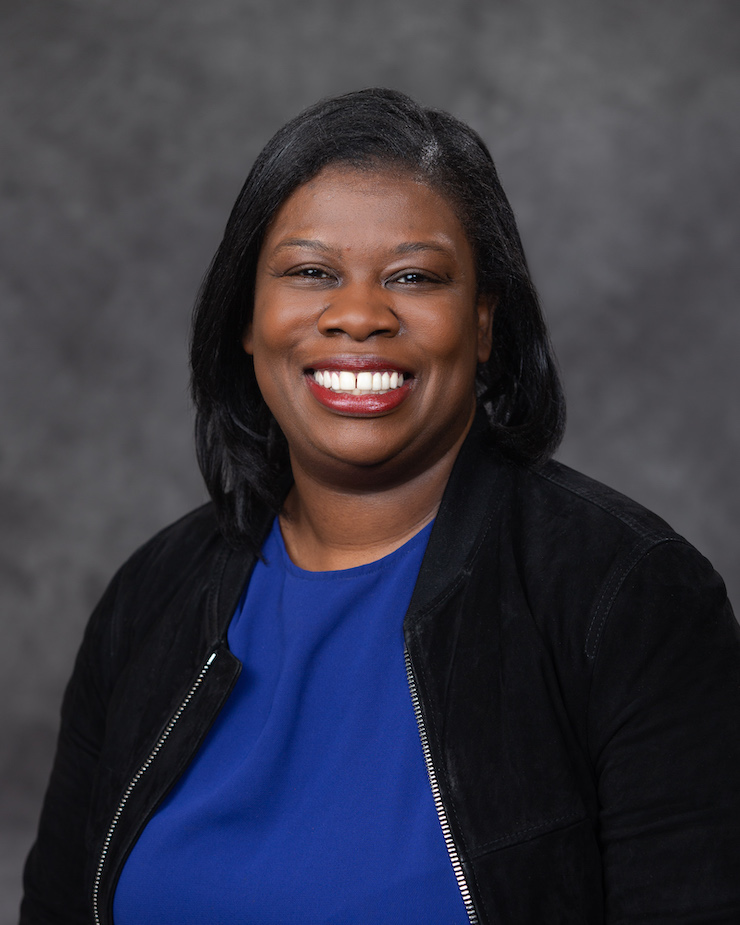
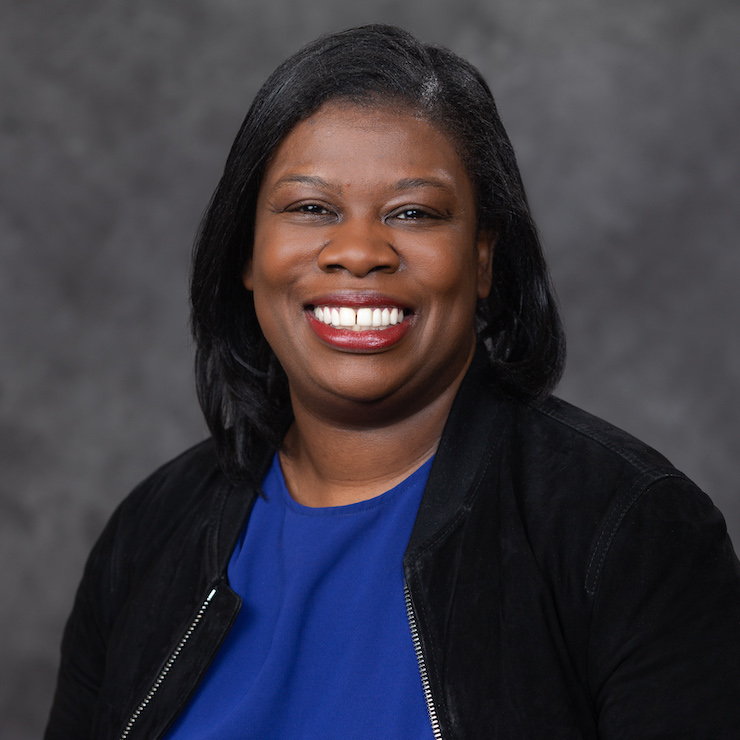
Adjust portrait picture size.

diff --git a/_layouts/post.html b/_layouts/post.html
@@ -41,8 +41,8 @@ layout: default
   var images = document.querySelector('.post').querySelectorAll('img')
   for (var i = 0; i < images.length; i++) {
     images[i].onload = function (event) {
-      if (event.target.width / event.target.height < 1.1) {
-        event.target.classList.add('portrait')
+      if (event.target.width / event.target.height <= 1.1 && event.target.width / event.target.height >= 0.9) {
+        event.target.classList.add('square')
       }
     }
   }

diff --git a/_sass/main.scss b/_sass/main.scss
@@ -387,8 +387,7 @@ blockquote {
     margin: 0 25%;
   }
   img.square {
-    max-width: 70%;
-    margin: 0 15%;
+    max-width: 100%;
   }
 }
 
@@ -493,6 +492,12 @@ blockquote {
       padding: 0.5rem 1rem 0.5rem 1rem;
       border-radius: 0.5rem;
       border: 1px solid $gray-600;
+    }
+
+    img[src$='#portrait'] {
+      width: 260px;
+      float: left;
+      margin: 0 2rem 1rem 0;
     }
   }
 

diff --git a/_posts/2020-06-30-c19-coalition-volunteer-highlight-mary-robertson.md b/_posts/2020-06-30-c19-coalition-volunteer-highlight-mary-robertson.md
@@ -17,7 +17,7 @@ summary: Mary Robertson joined the C19 Coalition as a volunteer in April.  She
   individuals to address their concerns and lessen disparities with COVID-19.
   She is passionate about helping people overcome the pandemic...
 ---
-![](/assets/uploads/img_3074.jpg)
+![](/assets/uploads/img_3074.jpg#portrait)
 
 The new, uncharted territory of COVID-19 holds to be the challenge for public health officials, researchers, and policymakers alike. With new developments and various forecasts for the future, adaptability and flexibility have been the gold star for many individuals to focus on their intended mission and goals.
 

diff --git a/_posts/2020-07-17-c19-coalition-volunteer-highlight-laura-mingott-and-impact.md b/_posts/2020-07-17-c19-coalition-volunteer-highlight-laura-mingott-and-impact.md
@@ -16,7 +16,7 @@ summary: Without access to proper food, housing, schooling, capital, and
   are built-in systems that fail an individual to meet their full potential, the
   gap of equality widens.
 ---
-![](/assets/uploads/lmignott2019-headshot-1.jpg)
+![](/assets/uploads/lmignott2019-headshot-1.jpg#portrait)
 
 The concept of equality cannot exist without equity, especially in times of complex hardship as we are facing today. There are communities living in this country that do not have access to basic systems like housing, schooling, capital, healthcare, or even nutritious meals.
 

diff --git a/_posts/2020-07-23-c19-coalition-volunteer-highlight-kelli-cree.md b/_posts/2020-07-23-c19-coalition-volunteer-highlight-kelli-cree.md
@@ -17,7 +17,7 @@ summary: Meet our self-described "Serial Volunteer", Kelli Cree. She helps with
   arisen due to COVID19, Cree continues to be a motivated volunteer with the
   Coalition to create a positive, long-lasting impact.
 ---
-![](/assets/uploads/kelli2.jpg)
+![](/assets/uploads/kelli2.jpg#portrait)
 
 As Quarantine switched up everyone’s routines, the word ‘pivot’ has been used to demonstrate the ‘new normal’ to adapt to these changes. For some, that means to be more active, indulge in hobbies that were overlooked, and reach out for new endeavors.
 

diff --git a/_posts/2020-07-17-c19-coalition-volunteer-highlight-alizay-rizvi.md b/_posts/2020-07-17-c19-coalition-volunteer-highlight-alizay-rizvi.md
@@ -18,7 +18,7 @@ summary: >-
 
   As a Texas native, Alizay Rizvi saw first-hand the toll COVID-19 was taking on her community but also realized how many were not acknowledging the pandemic...
 ---
-![](/assets/uploads/img_0124.jpg)
+![](/assets/uploads/img_0124.jpg#portrait)
 
 3,658 deaths. 302,000 cases. Texas reports the highest 1-day toll of deaths since the pandemic *began*.
 

diff --git a/_posts/2020-07-08-c19-coalition-volunteer-highlight-tracy-chen.md b/_posts/2020-07-08-c19-coalition-volunteer-highlight-tracy-chen.md
@@ -18,7 +18,7 @@ summary: Tracy Chen is the youngest of the C19 Coalition volunteers and one of
   position to help someone out uplifts all the unprecedented events that have
   occurred due to COVID-19...
 ---
-![](/assets/uploads/img_3251-2.jpg)
+![](/assets/uploads/img_3251-2.jpg#portrait)
 
 Activism. Reform. Impact.
 
